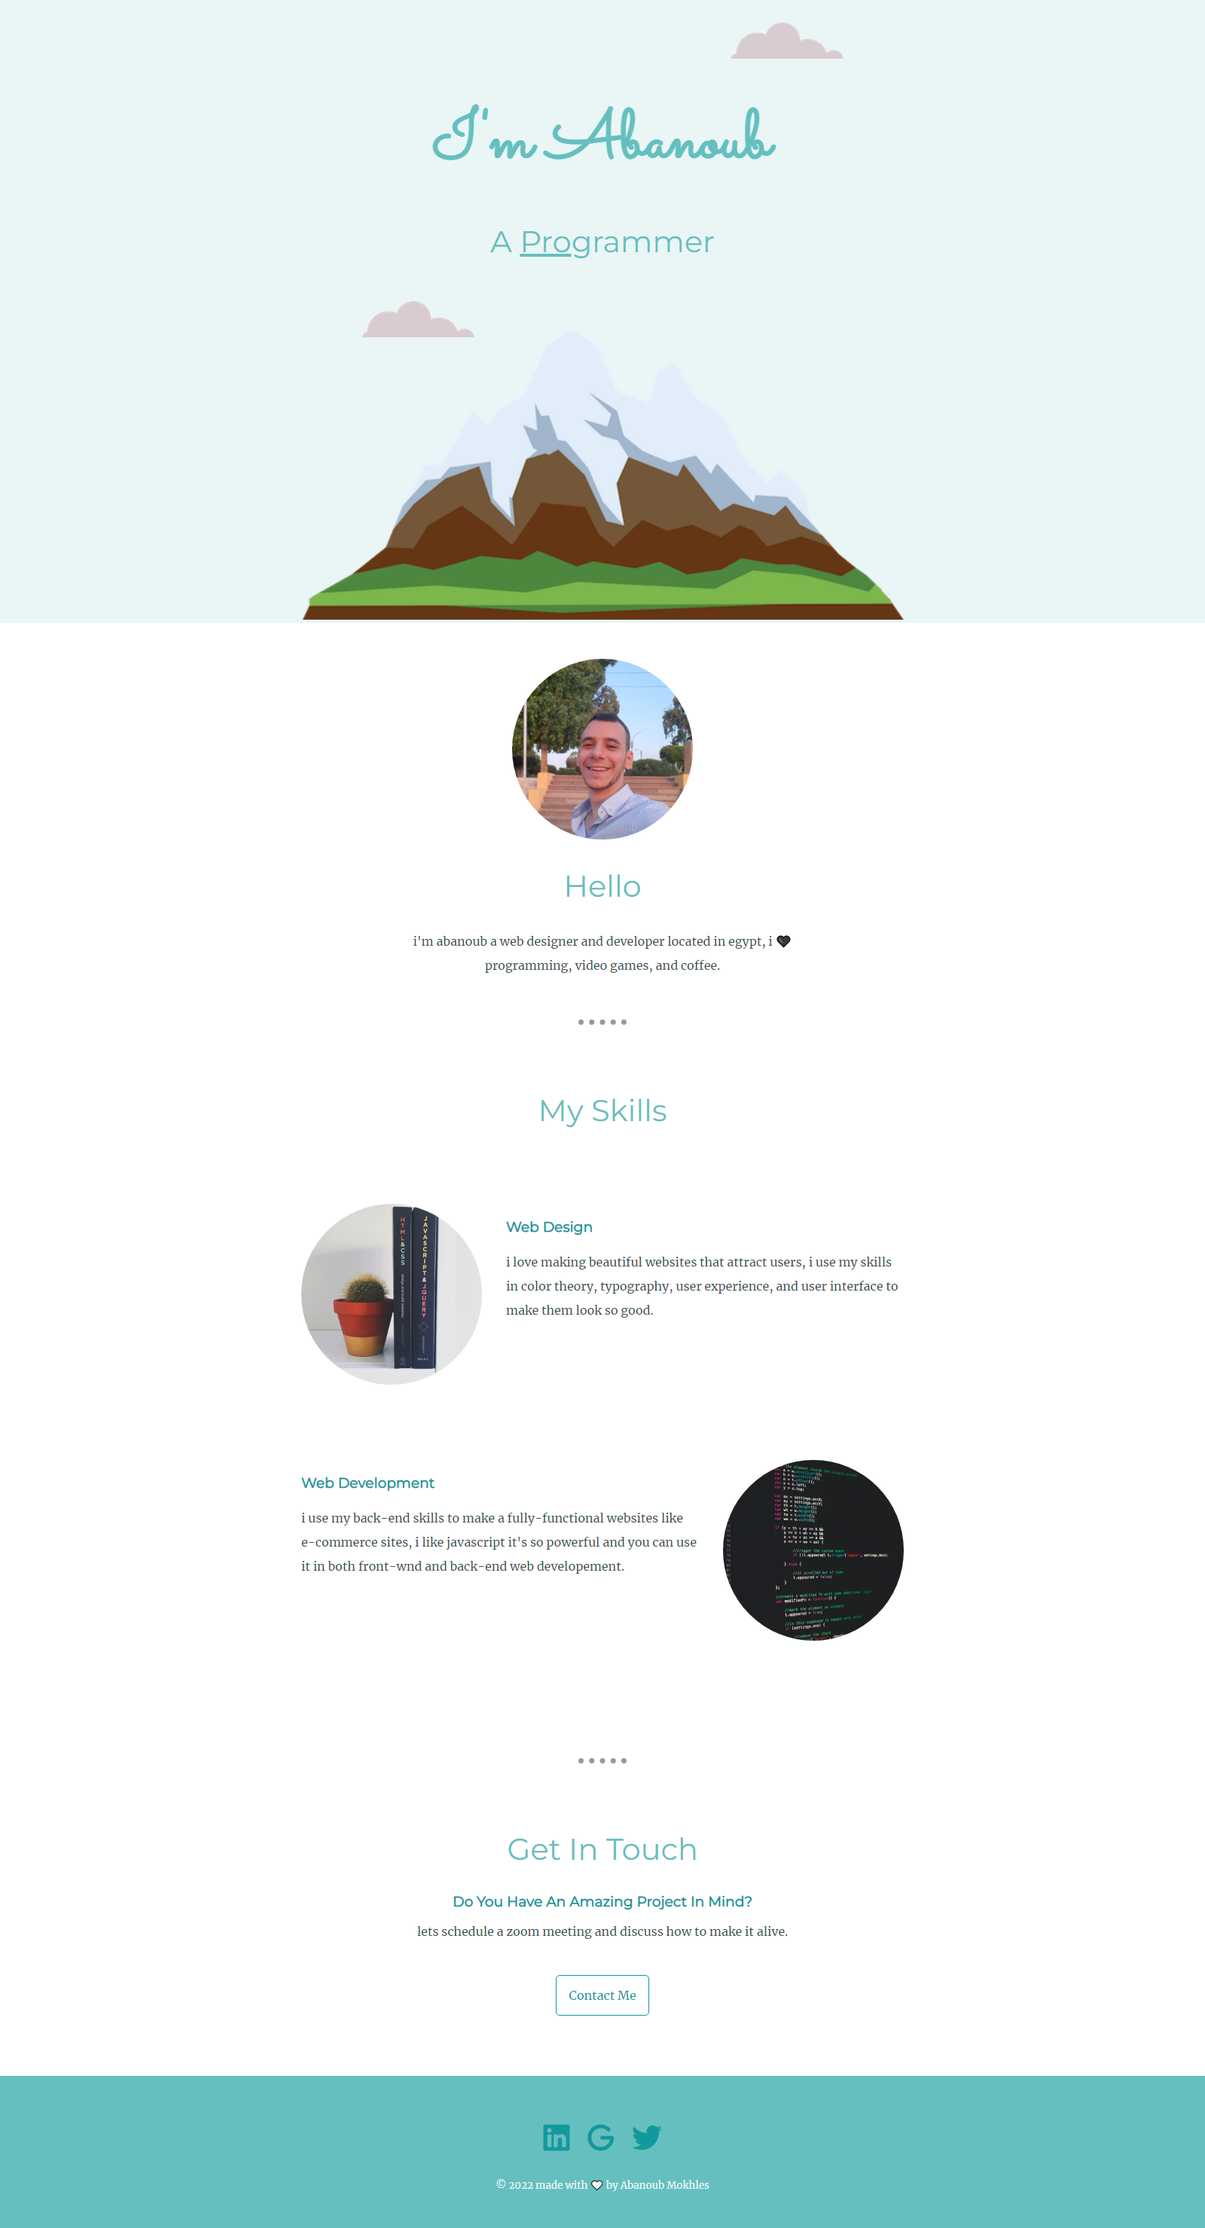
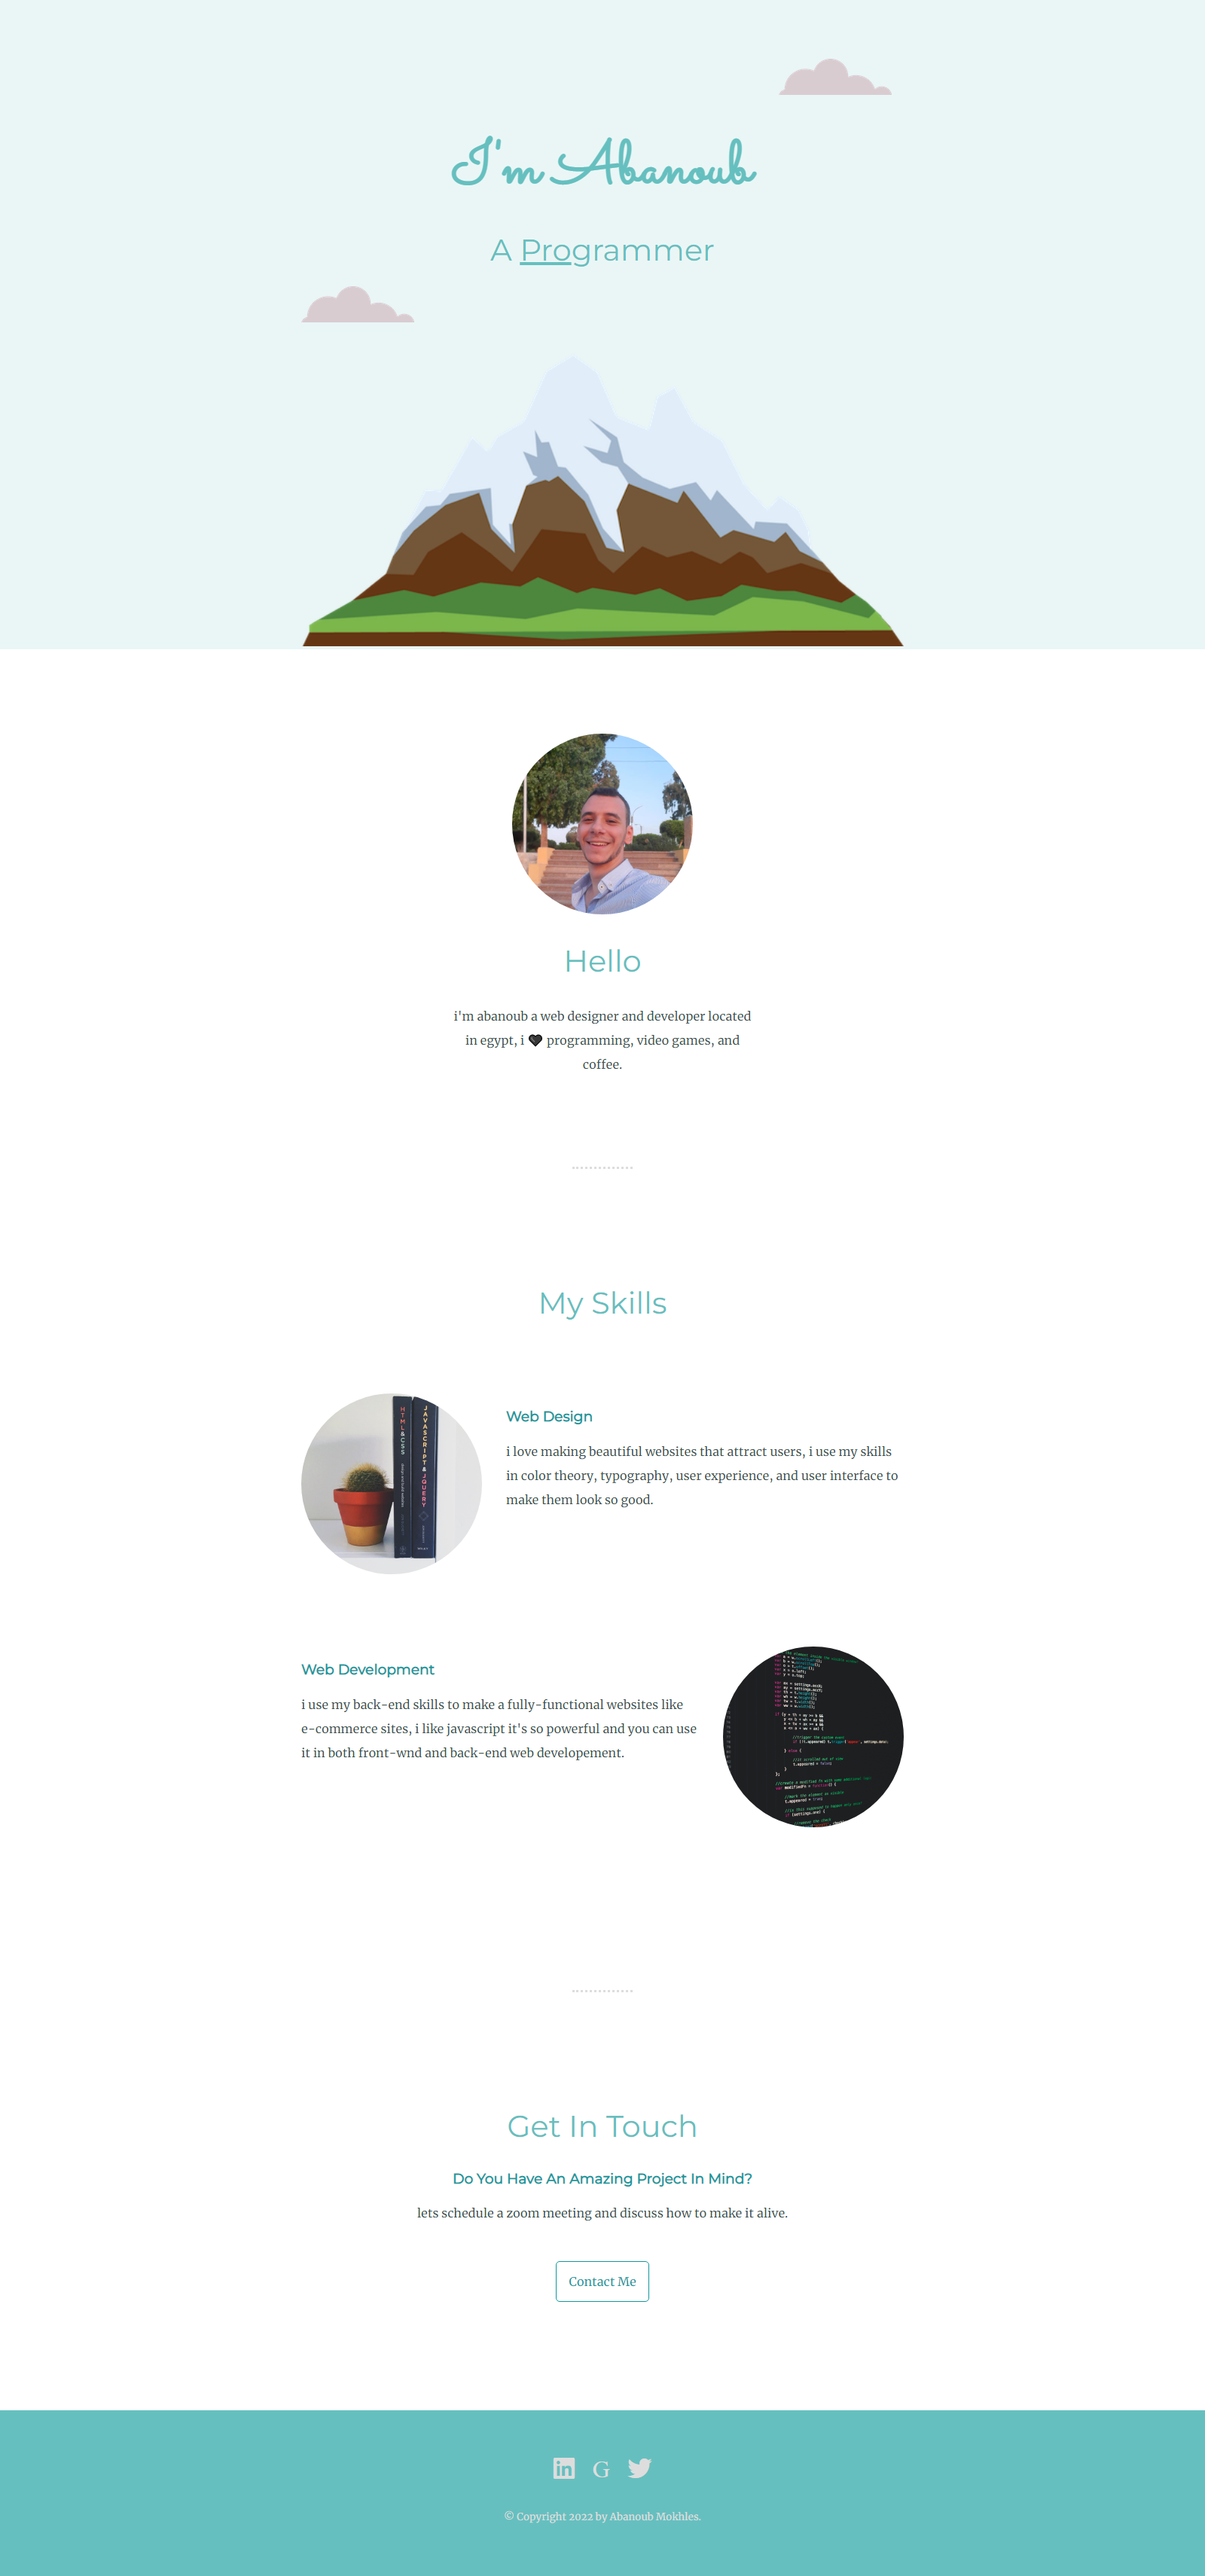
update some css styles
html fixes
css change some styles

diff --git a/css/styles.css b/css/styles.css
@@ -1,118 +1,125 @@
 /*  General Styles
 -------------------*/
 @import url("https://fonts.googleapis.com/css2?family=Merriweather&family=Montserrat&family=Sacramento&display=swap");
+
 body {
+  font-family: "Merriweather", serif;
   margin: 0;
   text-align: center;
-  font-family: "Merriweather", serif;
   color: #40514e;
+}
+h2,
+h3,
+h4,
+h5,
+h6 {
+  font-family: "Montserrat", sans-serif;
+  font-weight: normal;
+  text-transform: capitalize;
 }
 h1 {
   font-family: "Sacramento", cursive;
-  font-size: 5.625rem;
-  margin: 0;
-  text-transform: capitalize;
-  color: #66bfbf;
-  line-height: 2;
+  font-weight: bold;
 }
-h2,
-header p {
-  color: #66bfbf;
-  font-weight: normal;
+h2 {
   font-size: 2.5rem;
+  color: #66bfbf;
 }
-h3,
-a {
+h3 {
   color: #11999e;
+  font-weight: bold;
 }
-h2,
-h3,
-header p {
-  font-family: "Montserrat", sans-serif;
-  text-transform: capitalize;
+p {
+  line-height: 2;
 }
 hr {
   border: none;
-  border-bottom: 7px dotted #999;
-  width: 4%;
+  border-bottom: 3px dotted #ddd;
+  width: 5%;
 }
+.container {
+  margin: 0 auto;
+  max-width: 50%;
+  padding: 7% 0;
+}
+
 /*  Header Styles
 -------------------*/
 header {
-  padding-top: 100px;
   background-color: #eaf6f6;
+  color: #66bfbf;
+  padding-top: 10rem;
   position: relative;
-}
-header p {
-  margin: 1rem auto 0;
-}
-header p span {
-  text-decoration: underline;
 }
 header .cloud {
   position: absolute;
+  animation: slowMove 20s linear infinite alternate;
 }
-.top-cloud {
-  top: 30px;
-  right: 30%;
+.cloud.top {
+  top: 9%;
+  right: 26%;
 }
-.bottom-cloud {
-  top: 400px;
+.cloud.botoom {
+  top: 70%;
   left: 30%;
 }
 .mountain {
-  width: 100%;
+  width: 50%;
+}
+header h1 {
+  font-size: 5rem;
+  margin: 0.5rem;
+}
+header p {
+  font-family: "Montserrat", sans-serif;
+  font-size: 2.5rem;
+  margin: 0.5rem;
+}
+header .pro {
+  text-decoration: underline;
+}
+@keyframes slowMove {
+  from {
+    transform: translateX(-100px);
+  }
+  to {
+    transform: translateX(100px);
+  }
 }
 /*  Intro Styles
--------------------*/
-.intro {
-  padding: 3rem 0;
-  width: 50%;
-  margin: 0 auto;
-}
+-------------------------*/
 .intro img {
   width: 30%;
   border-radius: 100%;
 }
 .intro p {
-  width: 70%;
+  width: 50%;
   margin: 0 auto;
-  line-height: 2;
 }
 
 /*  Skills Styles
--------------------*/
-.skills {
-  padding: 3rem 0;
-}
-.skill_row {
-  width: 50%;
-  margin: 6.25rem auto;
+-------------------------*/
+.skill {
   text-align: left;
+  margin: 6rem 0;
   overflow: hidden;
 }
-.skill_row img {
+.skill img {
   width: 30%;
   border-radius: 100%;
 }
-.skill_row .webDesignImg {
+.front-end {
   float: left;
   margin-right: 2rem;
 }
-.skill_row .webDevelopImg {
+.back-end {
   float: right;
   margin-left: 2rem;
 }
-.skill_row p {
-  line-height: 2;
-}
 
-/*  Footer Styles
--------------------*/
-.upperFooter {
-  padding: 3rem 0;
-}
-.contactMe {
+/*  contact Styles
+-------------------------*/
+.contact .btn {
   text-decoration: none;
   padding: 1rem;
   border: 1px solid #11999e;
@@ -120,15 +127,16 @@ header .cloud {
   display: inline-block;
   margin: 2rem auto;
   border-radius: 5px;
+  animation: bouncy 5s infinite linear;
+  position: relative;
+  text-transform: capitalize;
+  transition: 0.5s ease;
 }
-.contactMe:hover {
+.contact .btn:hover {
+  border: 1px solid #fff;
   background-color: #11999e;
   color: #fff;
   animation: none;
-}
-.bouncy {
-  animation: bouncy 5s infinite linear;
-  position: relative;
 }
 @keyframes bouncy {
   0% {
@@ -140,6 +148,7 @@ header .cloud {
   43% {
     top: -0.9em;
   }
+
   46% {
     top: 0em;
   }
@@ -153,26 +162,56 @@ header .cloud {
     top: 0em;
   }
 }
-footer .contactInfo {
+
+/*  Footer Styles
+-------------------------*/
+footer {
   background-color: #66bfbf;
+  color: #ddd;
   padding: 3rem 0;
 }
-footer .contactInfo p {
-  margin: 0;
-  color: #eaf6f6;
-}
-.links {
-  margin-bottom: 1rem;
-}
-.links a {
+footer a {
+  color: #ddd;
   display: inline-block;
+  font-size: 2rem;
   padding: 5px;
   margin: 5px;
-  font-size: 2.5rem;
 }
 
-@media (min-width: 720px) {
-  img.mountain {
-    width: 50%;
+/*  Responsive Styles
+-------------------------*/
+@media screen and (max-width: 720px) {
+  .container {
+    max-width: 70%;
+  }
+  .mountain {
+    width: 100%;
+  }
+  header h1 {
+    font-size: 3rem;
+  }
+  header p {
+    font-size: 1.5rem;
+  }
+  .intro img {
+    width: 70%;
+  }
+  .intro p {
+    width: 100%;
+  }
+  .skill {
+    text-align: center;
+    margin: 4rem 0;
+  }
+  .skill img {
+    width: 70%;
+  }
+  .skill .front-end {
+    float: none;
+    margin-right: 0;
+  }
+  .skill .back-end {
+    float: none;
+    margin-left: 0;
   }
 }

diff --git a/index.html b/index.html
@@ -4,56 +4,70 @@
     <meta charset="UTF-8">
     <meta http-equiv="X-UA-Compatible" content="IE=edge">
     <meta name="viewport" content="width=device-width, initial-scale=1.0">
-    <title>Abanoub Mokhles - a web developer</title>
-    <script src="https://kit.fontawesome.com/d3192403f3.js" crossorigin="anonymous"></script>
+    <meta name="description" content="abanoub mokhles personal site">
+    <meta name="keywords" content="personal site, abanoub mokhles, web developer">
+    <title>Abanoub Mokhles</title>
     <link rel="icon" href="images/favicon.ico">
     <link rel="stylesheet" href="css/styles.css">
+    <script src="https://kit.fontawesome.com/d3192403f3.js" crossorigin="anonymous"></script>
 </head>
 <body>
+    <!-- Header -->
     <header role="banner">
-        <img class="cloud top-cloud"src="images/cloud.png" alt="cloud-image">
-        <h1>i'm abanoub</h1>
-        <p>a <span>pro</span>grammer</p>
-        <img class="cloud bottom-cloud"src="images/cloud.png" alt="cloud-image">
-        <img class="mountain"src="images/mountain.png" alt="cloud-image">
+        <div class="header_box">
+            <img class="cloud top" src="images/cloud.png" alt="cloud image">
+            <h1>I'm Abanoub</h1>
+            <p>A <span class="pro">Pro</span>grammer</p>
+            <img class="cloud bottom" src="images/cloud.png" alt="cloud image">
+            <img class="mountain" src="images/mountain.png" alt="mountain image">
+        </div>
     </header>
     <main role="main">
+        <!-- Intro -->
         <section class="intro">
-            <img src="images/abanoub.jpg" alt="abanoub-profile-image">
+            <div class="container">
+            <img src="images/abanoub.jpg" alt="abanoub mokhles profile image">
             <h2>Hello</h2>
             <p>i'm abanoub a web designer and developer located in egypt, i 🖤 programming, video games, and coffee.</p>
+            </div>
         </section>
         <hr>
+
+        <!-- Skills -->
         <section class="skills">
-            <h2>My Skills</h2>
-            <div class="skill_row">
-                <img class="webDesignImg" src="images/front-end.jpg" alt="web design book">
-                <h3>Web Design</h3>
+            <div class="container">
+            <h2>my skills</h2>
+            <div class="skill">
+                <img class="front-end" src="images/front-end.jpg" alt="books-image">
+                <h3>web design</h3>
                 <p>i love making beautiful websites that attract users, i use my skills in color theory, typography, user experience, and user interface to make them look so good.</p>
             </div>
-            <div class="skill_row">
-                <img class="webDevelopImg" src="images/back-end.jpg" alt="web design book">
-                <h3>Web Development</h3>
+            <div class="skill">
+                <img class="back-end" src="images/back-end.jpg" alt="code-image">
+                <h3>web development</h3>
                 <p>i use my back-end skills to make a fully-functional websites like e-commerce sites, i like javascript it's so powerful and you can use it in both front-wnd and back-end web developement.</p>
+            </div>
             </div>
         </section>
         <hr>
-    </main>
-    <footer role="complementary">
-        <div class="upperFooter">
+
+        <!-- Contact -->
+        <section class="contact">
+            <div class="container">
             <h2>Get In Touch</h2>
-            <h3>do you have an amazing project in mind?</h3>
+            <h3>Do You Have An Amazing Project In Mind?</h3>
             <p>lets schedule a zoom meeting and discuss how to make it alive.</p>
-            <a class="contactMe bouncy" href="contact.html">Contact Me</a>
-        </div>
-        <div class="contactInfo">
-            <div class="links">
-                <a href="#"><i class="fa-brands fa-linkedin"></i></a>
-                <a href="#"><i class="fa-solid fa-g"></i></a>
-                <a href="#"><i class="fa-brands fa-twitter"></i></a>
+            <a href="#" class="btn">contact me</a>
             </div>
-            <p><small>&copy; 2022 made with 🤍 by Abanoub Mokhles</small></p>
-        </div>
+        </section>
+    </main>
+    
+    <!-- Footer -->
+    <footer role="contentinfo">
+        <a href="#"><i class="fa-brands fa-linkedin"></i></a>
+        <a href="#"><i class="fa-brands fa-g"></i></a>
+        <a href="#"><i class="fa-brands fa-twitter"></i></a>
+        <p><small>&copy; Copyright 2022 by Abanoub Mokhles.</small></p>
     </footer>
 </body>
 </html>
